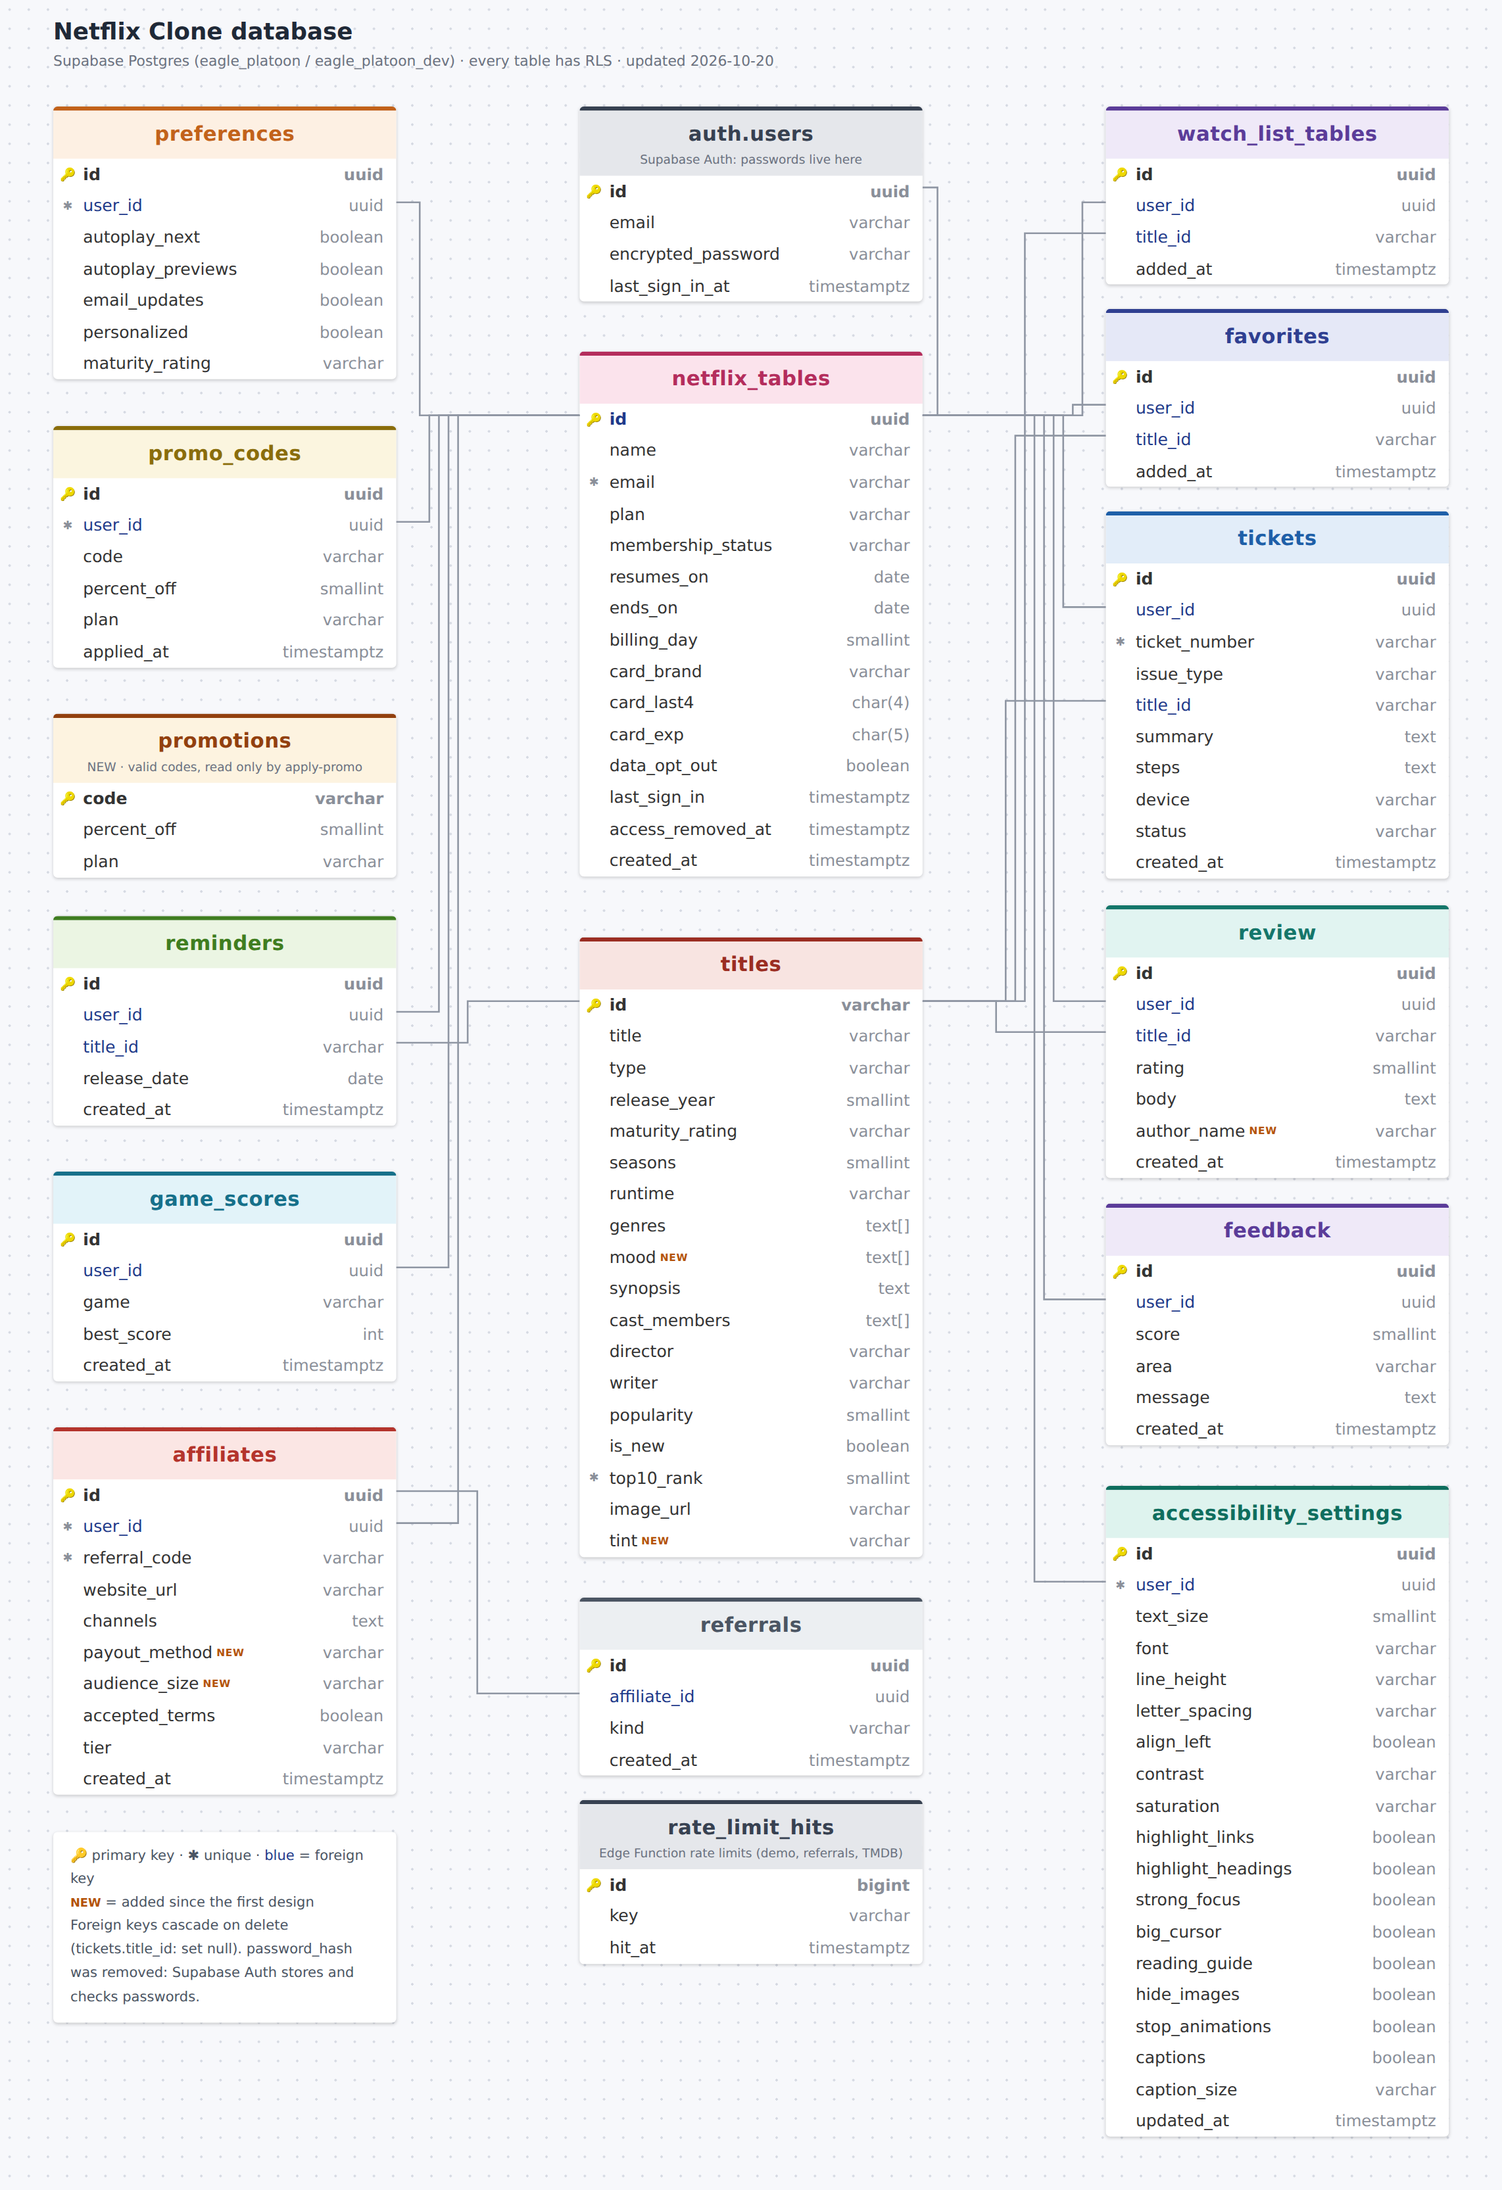
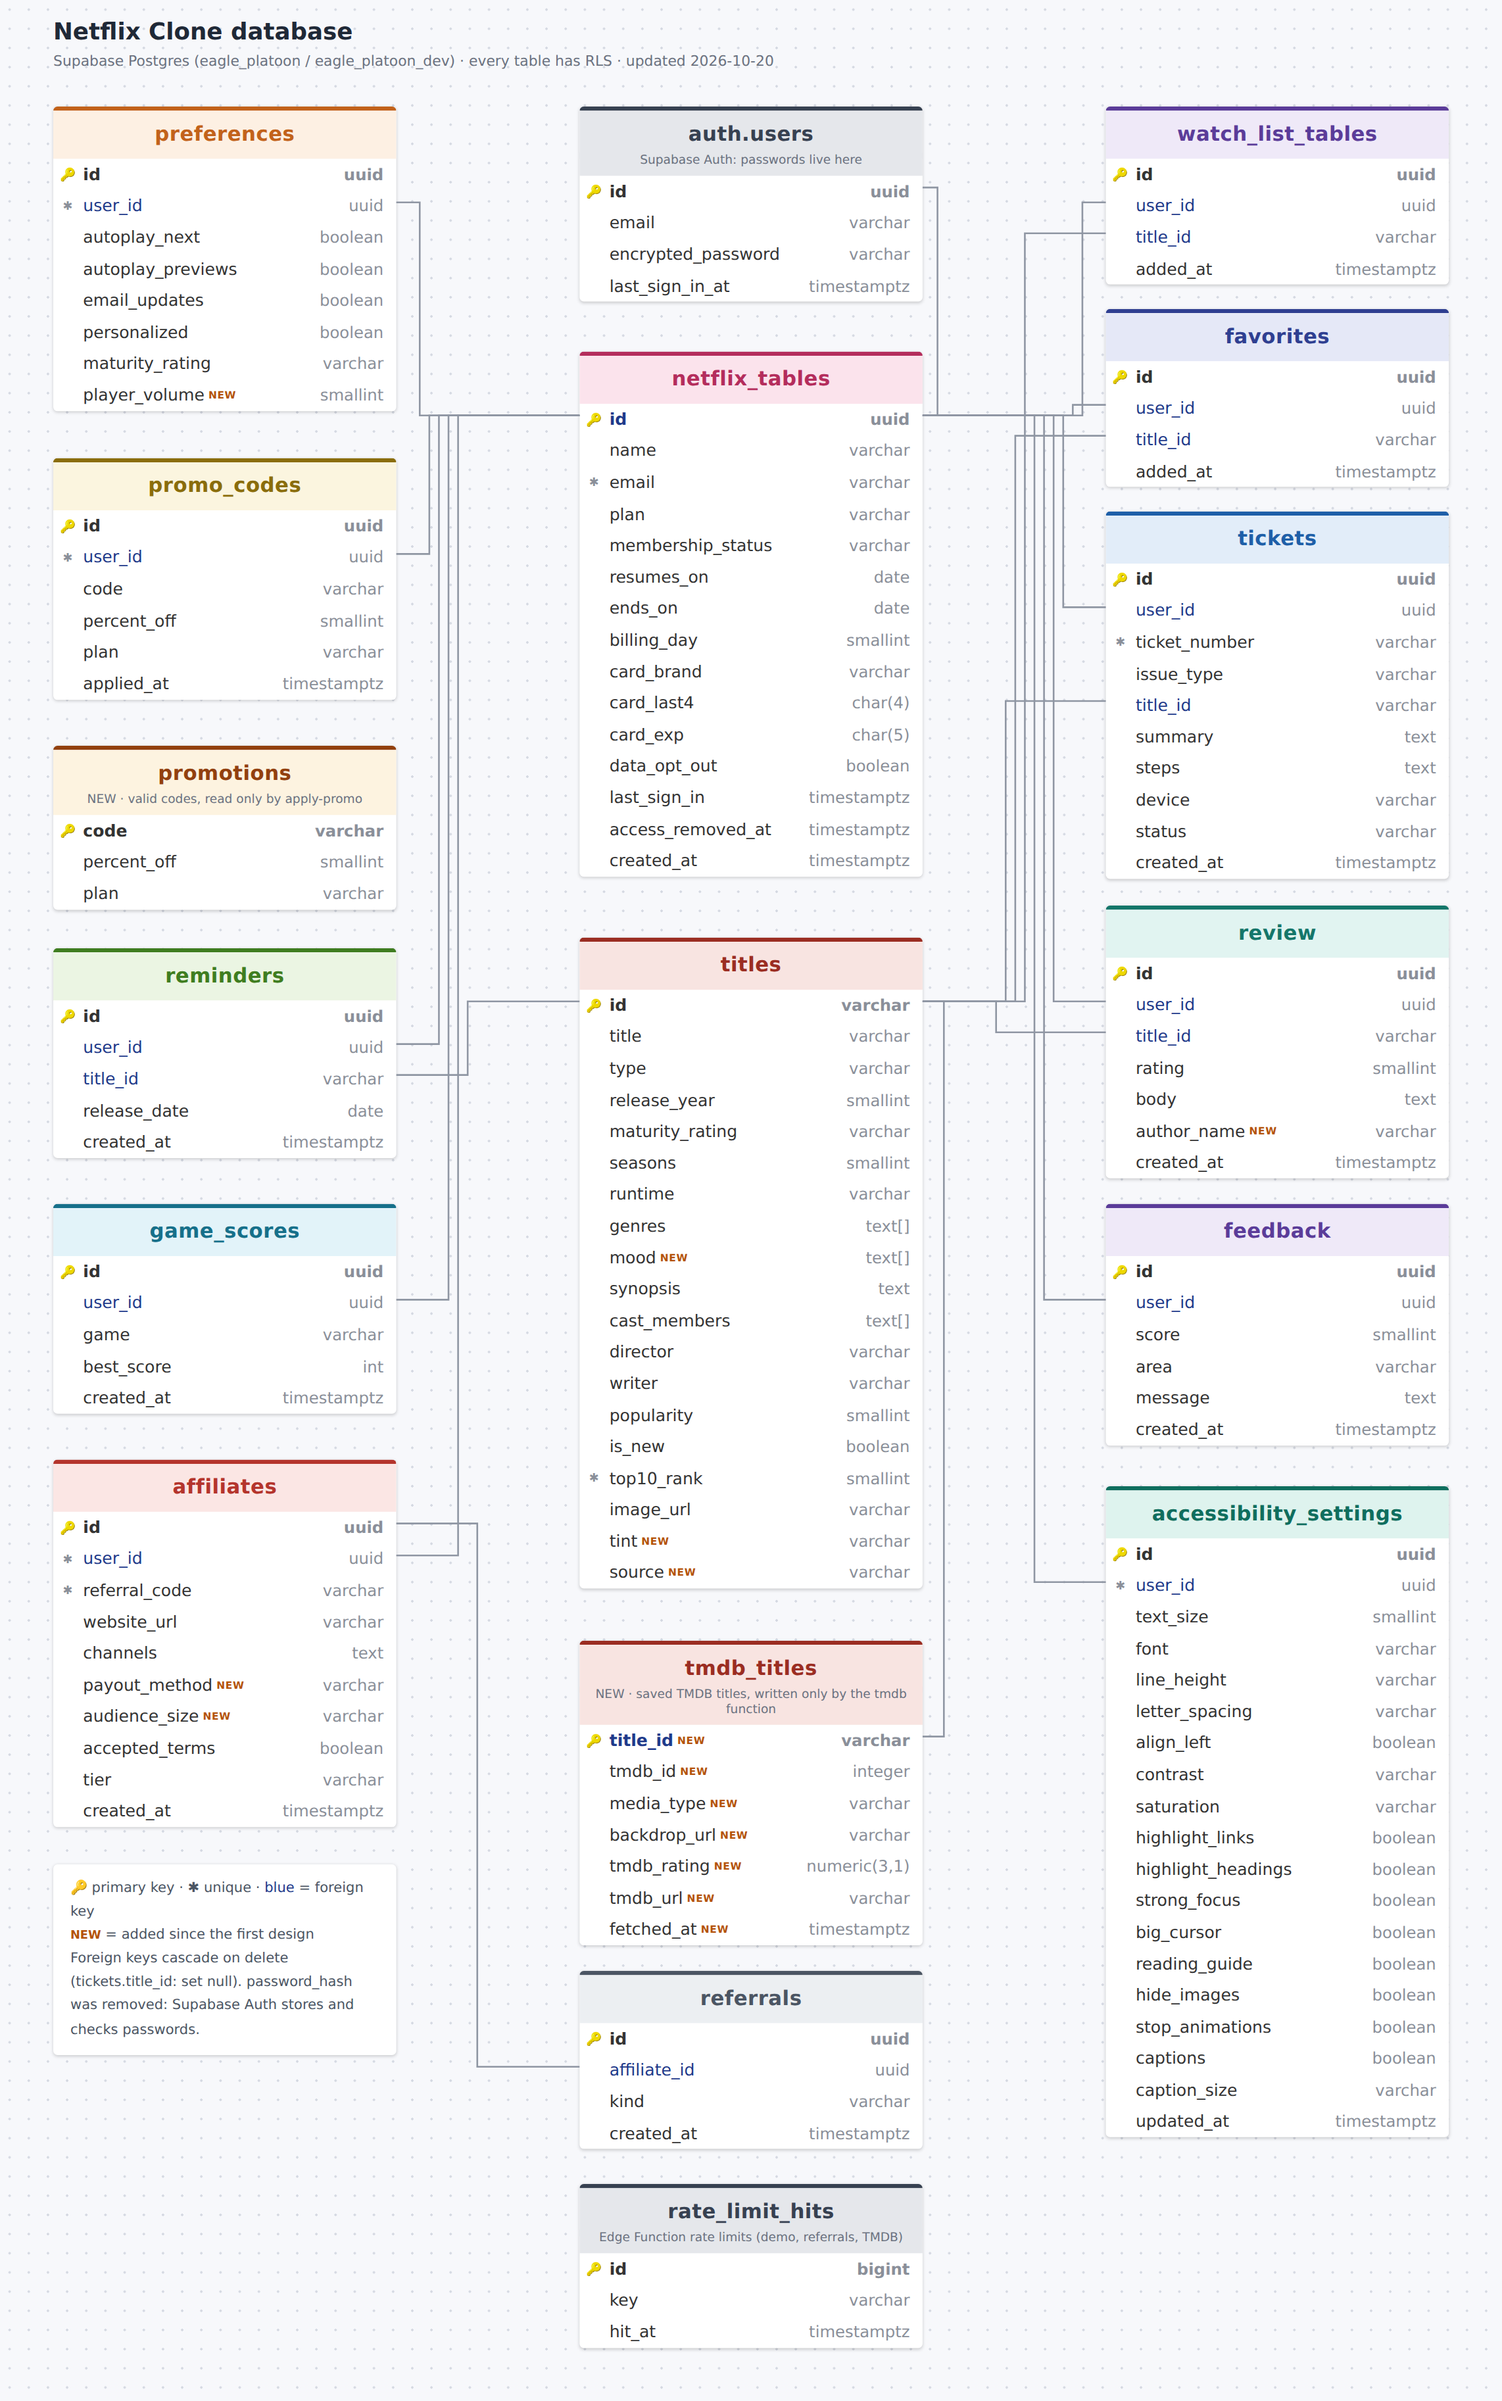
Schema and diagram: tmdb_titles table, titles.source, preferences.player_volume
Members will be able to save TMDB titles to My List and Favorites: titles gains
source ('catalog' or 'tmdb') so saved TMDB titles keep the existing foreign keys,
and the new tmdb_titles table holds their TMDB-only details (TMDB id, type,
backdrop, rating, link). preferences gains player_volume so the player's volume
follows a member to any device. drawsql.png is redrawn from erd.html.

diff --git a/supabase/diagram/erd.html b/supabase/diagram/erd.html
@@ -34,23 +34,24 @@ const C = {
 }
 const L = 50, M = 544, R = 1038
 const tables = [
-  ['preferences', 'orange', L, 100, ['id:uuid:p', 'user_id:uuid:fu', 'autoplay_next:boolean', 'autoplay_previews:boolean', 'email_updates:boolean', 'personalized:boolean', 'maturity_rating:varchar']],
-  ['promo_codes', 'gold', L, 400, ['id:uuid:p', 'user_id:uuid:fu', 'code:varchar', 'percent_off:smallint', 'plan:varchar', 'applied_at:timestamptz']],
-  ['promotions', 'amber', L, 670, ['code:varchar:p', 'percent_off:smallint', 'plan:varchar'], 'NEW · valid codes, read only by apply-promo'],
-  ['reminders', 'green', L, 860, ['id:uuid:p', 'user_id:uuid:f', 'title_id:varchar:f', 'release_date:date', 'created_at:timestamptz']],
-  ['game_scores', 'cyan', L, 1100, ['id:uuid:p', 'user_id:uuid:f', 'game:varchar', 'best_score:int', 'created_at:timestamptz']],
-  ['affiliates', 'red', L, 1340, ['id:uuid:p', 'user_id:uuid:fu', 'referral_code:varchar:u', 'website_url:varchar', 'channels:text', 'payout_method:varchar:n', 'audience_size:varchar:n', 'accepted_terms:boolean', 'tier:varchar', 'created_at:timestamptz']],
+  ['preferences', 'orange', L, 100, ['id:uuid:p', 'user_id:uuid:fu', 'autoplay_next:boolean', 'autoplay_previews:boolean', 'email_updates:boolean', 'personalized:boolean', 'maturity_rating:varchar', 'player_volume:smallint:n']],
+  ['promo_codes', 'gold', L, 430, ['id:uuid:p', 'user_id:uuid:fu', 'code:varchar', 'percent_off:smallint', 'plan:varchar', 'applied_at:timestamptz']],
+  ['promotions', 'amber', L, 700, ['code:varchar:p', 'percent_off:smallint', 'plan:varchar'], 'NEW · valid codes, read only by apply-promo'],
+  ['reminders', 'green', L, 890, ['id:uuid:p', 'user_id:uuid:f', 'title_id:varchar:f', 'release_date:date', 'created_at:timestamptz']],
+  ['game_scores', 'cyan', L, 1130, ['id:uuid:p', 'user_id:uuid:f', 'game:varchar', 'best_score:int', 'created_at:timestamptz']],
+  ['affiliates', 'red', L, 1370, ['id:uuid:p', 'user_id:uuid:fu', 'referral_code:varchar:u', 'website_url:varchar', 'channels:text', 'payout_method:varchar:n', 'audience_size:varchar:n', 'accepted_terms:boolean', 'tier:varchar', 'created_at:timestamptz']],
   ['auth.users', 'gray', M, 100, ['id:uuid:p', 'email:varchar', 'encrypted_password:varchar', 'last_sign_in_at:timestamptz'], 'Supabase Auth: passwords live here'],
   ['netflix_tables', 'pink', M, 330, ['id:uuid:pf', 'name:varchar', 'email:varchar:u', 'plan:varchar', 'membership_status:varchar', 'resumes_on:date', 'ends_on:date', 'billing_day:smallint', 'card_brand:varchar', 'card_last4:char(4)', 'card_exp:char(5)', 'data_opt_out:boolean', 'last_sign_in:timestamptz', 'access_removed_at:timestamptz', 'created_at:timestamptz']],
-  ['titles', 'brick', M, 880, ['id:varchar:p', 'title:varchar', 'type:varchar', 'release_year:smallint', 'maturity_rating:varchar', 'seasons:smallint', 'runtime:varchar', 'genres:text[]', 'mood:text[]:n', 'synopsis:text', 'cast_members:text[]', 'director:varchar', 'writer:varchar', 'popularity:smallint', 'is_new:boolean', 'top10_rank:smallint:u', 'image_url:varchar', 'tint:varchar:n']],
-  ['referrals', 'slate', M, 1500, ['id:uuid:p', 'affiliate_id:uuid:f', 'kind:varchar', 'created_at:timestamptz']],
+  ['titles', 'brick', M, 880, ['id:varchar:p', 'title:varchar', 'type:varchar', 'release_year:smallint', 'maturity_rating:varchar', 'seasons:smallint', 'runtime:varchar', 'genres:text[]', 'mood:text[]:n', 'synopsis:text', 'cast_members:text[]', 'director:varchar', 'writer:varchar', 'popularity:smallint', 'is_new:boolean', 'top10_rank:smallint:u', 'image_url:varchar', 'tint:varchar:n', 'source:varchar:n']],
+  ['tmdb_titles', 'brick', M, 1540, ['title_id:varchar:pfn', 'tmdb_id:integer:n', 'media_type:varchar:n', 'backdrop_url:varchar:n', 'tmdb_rating:numeric(3,1):n', 'tmdb_url:varchar:n', 'fetched_at:timestamptz:n'], 'NEW · saved TMDB titles, written only by the tmdb function'],
+  ['referrals', 'slate', M, 1850, ['id:uuid:p', 'affiliate_id:uuid:f', 'kind:varchar', 'created_at:timestamptz']],
   ['watch_list_tables', 'purple', R, 100, ['id:uuid:p', 'user_id:uuid:f', 'title_id:varchar:f', 'added_at:timestamptz']],
   ['favorites', 'indigo', R, 290, ['id:uuid:p', 'user_id:uuid:f', 'title_id:varchar:f', 'added_at:timestamptz']],
   ['tickets', 'blue', R, 480, ['id:uuid:p', 'user_id:uuid:f', 'ticket_number:varchar:u', 'issue_type:varchar', 'title_id:varchar:f', 'summary:text', 'steps:text', 'device:varchar', 'status:varchar', 'created_at:timestamptz']],
   ['review', 'teal', R, 850, ['id:uuid:p', 'user_id:uuid:f', 'title_id:varchar:f', 'rating:smallint', 'body:text', 'author_name:varchar:n', 'created_at:timestamptz']],
   ['feedback', 'lav', R, 1130, ['id:uuid:p', 'user_id:uuid:f', 'score:smallint', 'area:varchar', 'message:text', 'created_at:timestamptz']],
   ['accessibility_settings', 'sea', R, 1395, ['id:uuid:p', 'user_id:uuid:fu', 'text_size:smallint', 'font:varchar', 'line_height:varchar', 'letter_spacing:varchar', 'align_left:boolean', 'contrast:varchar', 'saturation:varchar', 'highlight_links:boolean', 'highlight_headings:boolean', 'strong_focus:boolean', 'big_cursor:boolean', 'reading_guide:boolean', 'hide_images:boolean', 'stop_animations:boolean', 'captions:boolean', 'caption_size:varchar', 'updated_at:timestamptz']],
-  ['rate_limit_hits', 'gray', M, 1690, ['id:bigint:p', 'key:varchar', 'hit_at:timestamptz'], 'Edge Function rate limits (demo, referrals, TMDB)'],
+  ['rate_limit_hits', 'gray', M, 2050, ['id:bigint:p', 'key:varchar', 'hit_at:timestamptz'], 'Edge Function rate limits (demo, referrals, TMDB)'],
 ]
 // [from table, from column, to table, to column]
 const links = [
@@ -59,6 +60,7 @@ const links = [
     .map(t => [t, 'user_id', 'netflix_tables', 'id']),
   ...['reminders', 'watch_list_tables', 'favorites', 'tickets', 'review'].map(t => [t, 'title_id', 'titles', 'id']),
   ['referrals', 'affiliate_id', 'affiliates', 'id'],
+  ['tmdb_titles', 'title_id', 'titles', 'id'],
 ]
 
 const board = document.getElementById('board')
@@ -76,7 +78,7 @@ for (const [name, color, x, y, rows, note] of tables) {
   board.appendChild(el)
 }
 const legend = document.createElement('div')
-legend.id = 'legend'; legend.style.left = L + 'px'; legend.style.top = '1720px'
+legend.id = 'legend'; legend.style.left = L + 'px'; legend.style.top = '1750px'
 legend.innerHTML = '🔑 primary key · ✱ unique · <span style="color:#1e3a8a">blue</span> = foreign key<br>' +
   '<b style="color:#b45309;font-size:11px">NEW</b> = added since the first design<br>' +
   'Foreign keys cascade on delete (tickets.title_id: set null). password_hash was removed: Supabase Auth stores and checks passwords.'
